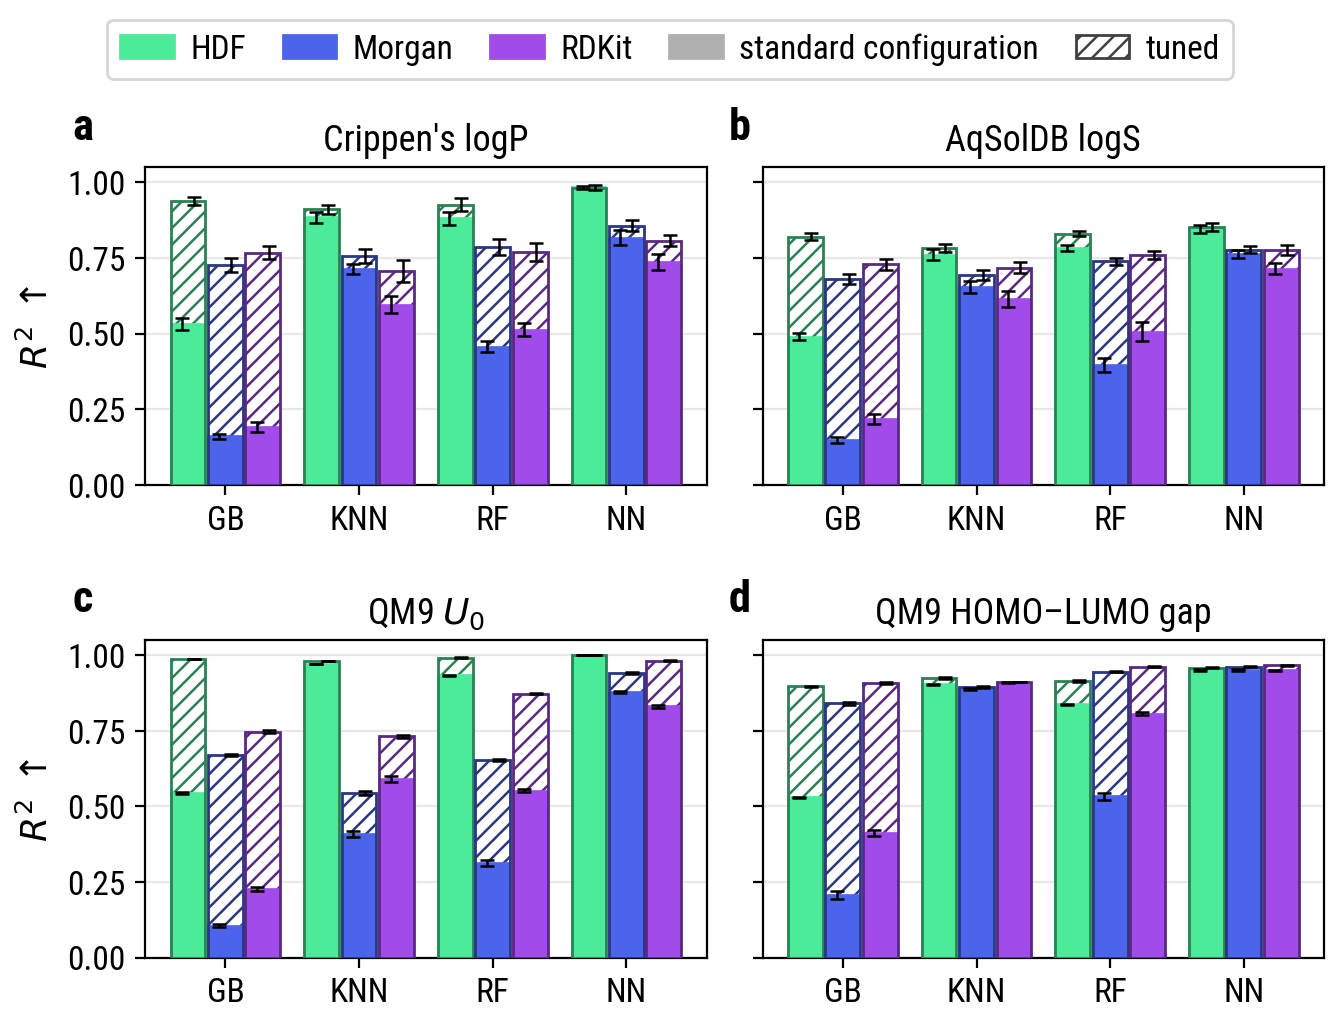
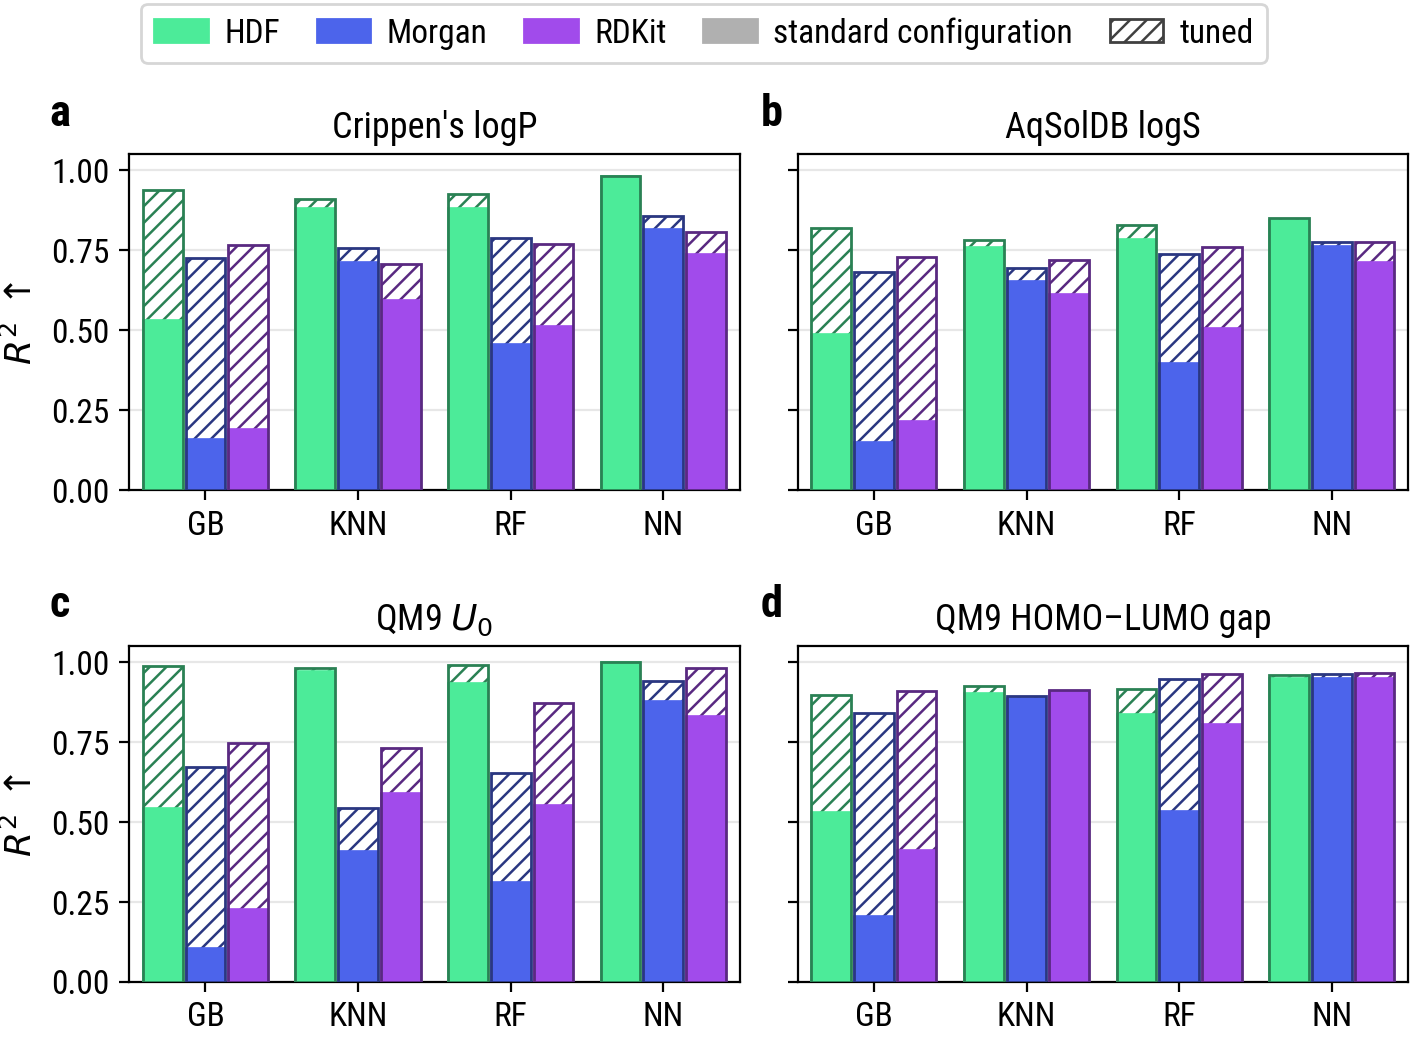
ex_28: Figure 2 without error bars, tightly cropped for the full text width

diff --git a/graph_hdc/experiments/fingerprints/make_figure_model_comparison.py b/graph_hdc/experiments/fingerprints/make_figure_model_comparison.py
@@ -2,9 +2,9 @@
 Figure 2 of the main text (ex_28): the model comparison. Per target (one panel each) and model type (gradient boosting,
 KNN, random forest, neural network), the test R2 of HDF, Morgan and RDKit fingerprints with the fixed standard
 configuration (solid bar) and after tuning with the same budget (hatched outline drawn over it, so that the hatched
-part above the solid bar is the gain from tuning; a tuned result below the fixed one ends inside the solid bar). Error
-bars: standard deviation over the 10 repetitions. Style of the paper's figures (Roboto Condensed, panel letters,
-y-grid).
+part above the solid bar is the gain from tuning; a tuned result below the fixed one ends inside the solid bar). No
+error bars (user, 2026-10-23): the standard deviations over the 10 repetitions are at most 0.04 R2. Style of the
+paper's figures (Roboto Condensed, panel letters, y-grid), cropped tightly so that it fills the text width.
 
     python make_figure_model_comparison.py <fig2_runs.csv of analyze_ex_28.py> <output .pdf> [--png]
 """
@@ -43,9 +43,10 @@ def main(path: str, out: str, png: bool):
     plt.style.use('default')
     plt.rcParams.update({'font.family': 'Roboto Condensed', 'font.size': FONT_SIZE, 'hatch.linewidth': 0.9})
     stats = load(path)
-    # 6.9 in wide: at the main text's 0.95 linewidth (about 340 pt) the fonts print at about 8 pt, as in Figure 3
-    fig, axes = plt.subplots(2, 2, figsize=(6.9, 5.2), sharey=True)
-    lows = [m - s for (m, s, _n) in stats.values()] or [0.0]
+    # 7.4 in wide (about 7 in after cropping): at the full text width of the main text (about 372 pt) the fonts print
+    # at about 8.5 pt, as in Figure 3
+    fig, axes = plt.subplots(2, 2, figsize=(7.4, 5.4), sharey=True)
+    lows = [m for (m, _s, _n) in stats.values()] or [0.0]
     bottom = min(0.0, np.floor(min(lows) * 10) / 10)
     for k, (ax, (target, title)) in enumerate(zip(axes.flat, TARGETS)):
         x = np.arange(len(MODELS))
@@ -54,8 +55,6 @@ def main(path: str, out: str, png: bool):
             for setting in ('fixed', 'tuned'):
                 means = np.array([stats.get((target, method, model, setting), (np.nan, np.nan, 0))[0]
                                   for model in MODELS])
-                stds = np.array([stats.get((target, method, model, setting), (np.nan, np.nan, 0))[1]
-                                 for model in MODELS])
                 if setting == 'fixed':
                     # the solid fixed bar covers the overlap with the hatched tuned bar behind it
                     ax.bar(pos, means, WIDTH, color=color, edgecolor=color, linewidth=0.6, zorder=3)
@@ -65,9 +64,8 @@ def main(path: str, out: str, png: bool):
                            linewidth=0, zorder=2)
                     # its outline on top, so that a tuned result below the fixed one stays visible as a line
                     ax.bar(pos, means, WIDTH, facecolor='none', edgecolor=darker(color), linewidth=1.0, zorder=4)
-                ax.errorbar(pos + (-0.045 if setting == 'fixed' else 0.045), means, yerr=stds, fmt='none',
-                            ecolor='black', elinewidth=0.9, capsize=2.5, capthick=0.9, zorder=5)
         ax.set_xticks(x)
+        ax.set_xlim(-0.5, len(MODELS) - 0.5)
         ax.set_xticklabels(MODELS)
         ax.set_title(title, fontsize=FONT_SIZE + 1)
         ax.grid(axis='y', alpha=0.3, zorder=0)
@@ -85,9 +83,9 @@ def main(path: str, out: str, png: bool):
                handlelength=1.6, handletextpad=0.5, columnspacing=1.1,
                fontsize=FONT_SIZE)
     fig.tight_layout(rect=(0, 0, 1, 0.94), h_pad=1.2, w_pad=0.8)
-    fig.savefig(out, bbox_inches='tight')
+    fig.savefig(out, bbox_inches='tight', pad_inches=0.02)
     if png:
-        fig.savefig(out.rsplit('.', 1)[0] + '.png', dpi=200, bbox_inches='tight')
+        fig.savefig(out.rsplit('.', 1)[0] + '.png', dpi=200, bbox_inches='tight', pad_inches=0.02)
     missing = [(t, m, model, s) for t, _ in TARGETS for m, *_ in METHODS for model in MODELS
                for s in ('fixed', 'tuned') if (t, m, model, s) not in stats]
     print(f'wrote {out}; {len(missing)} bars without data' + (f', e.g. {missing[:3]}' if missing else ''))
